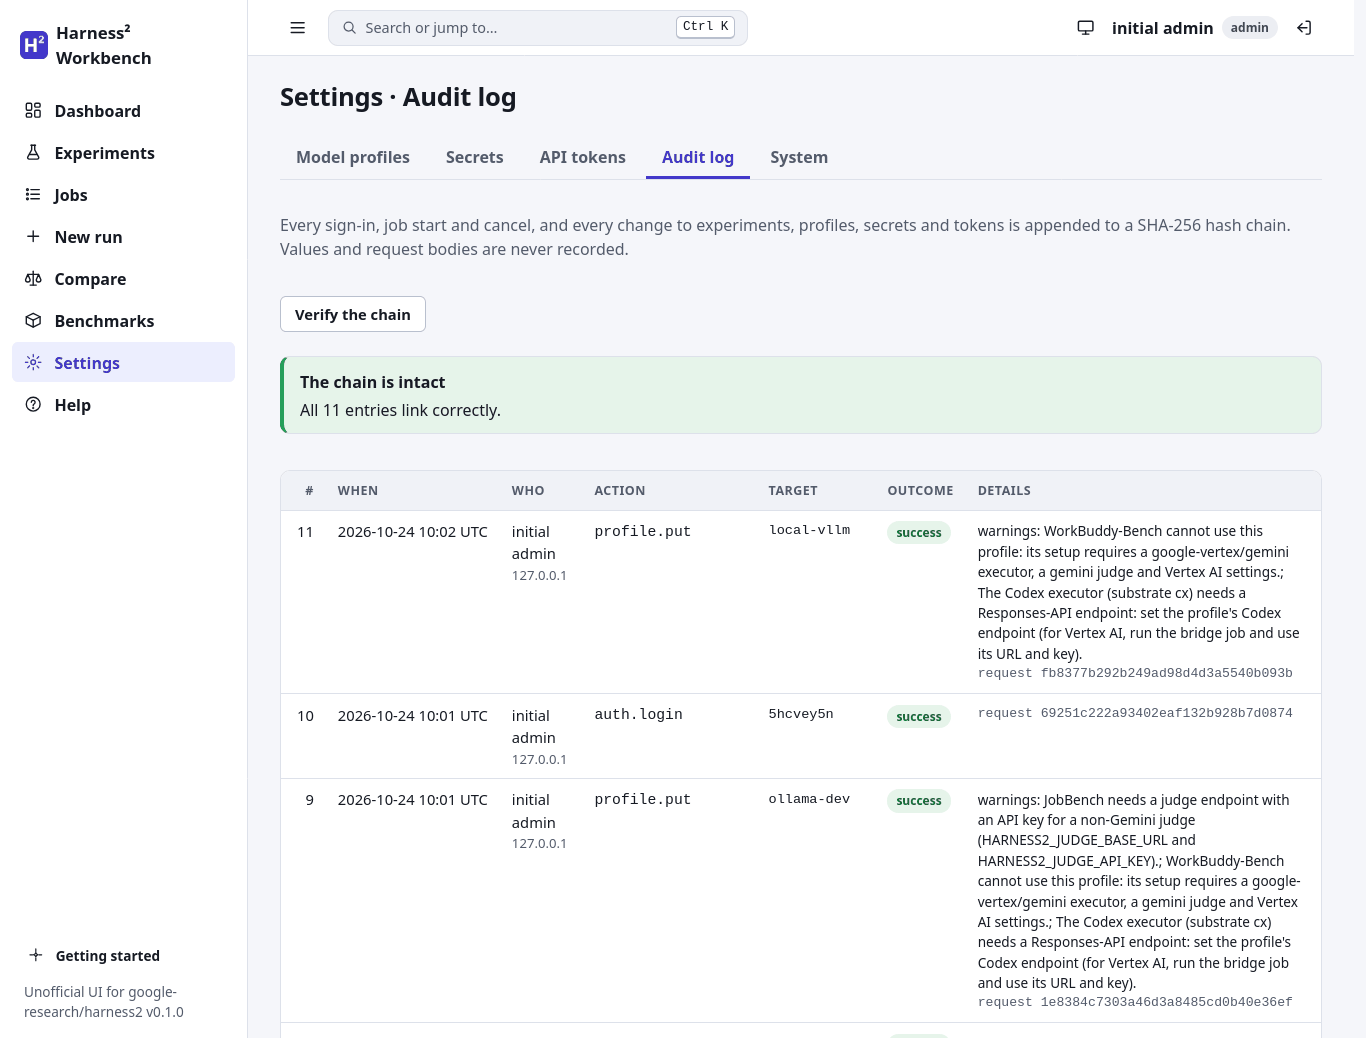
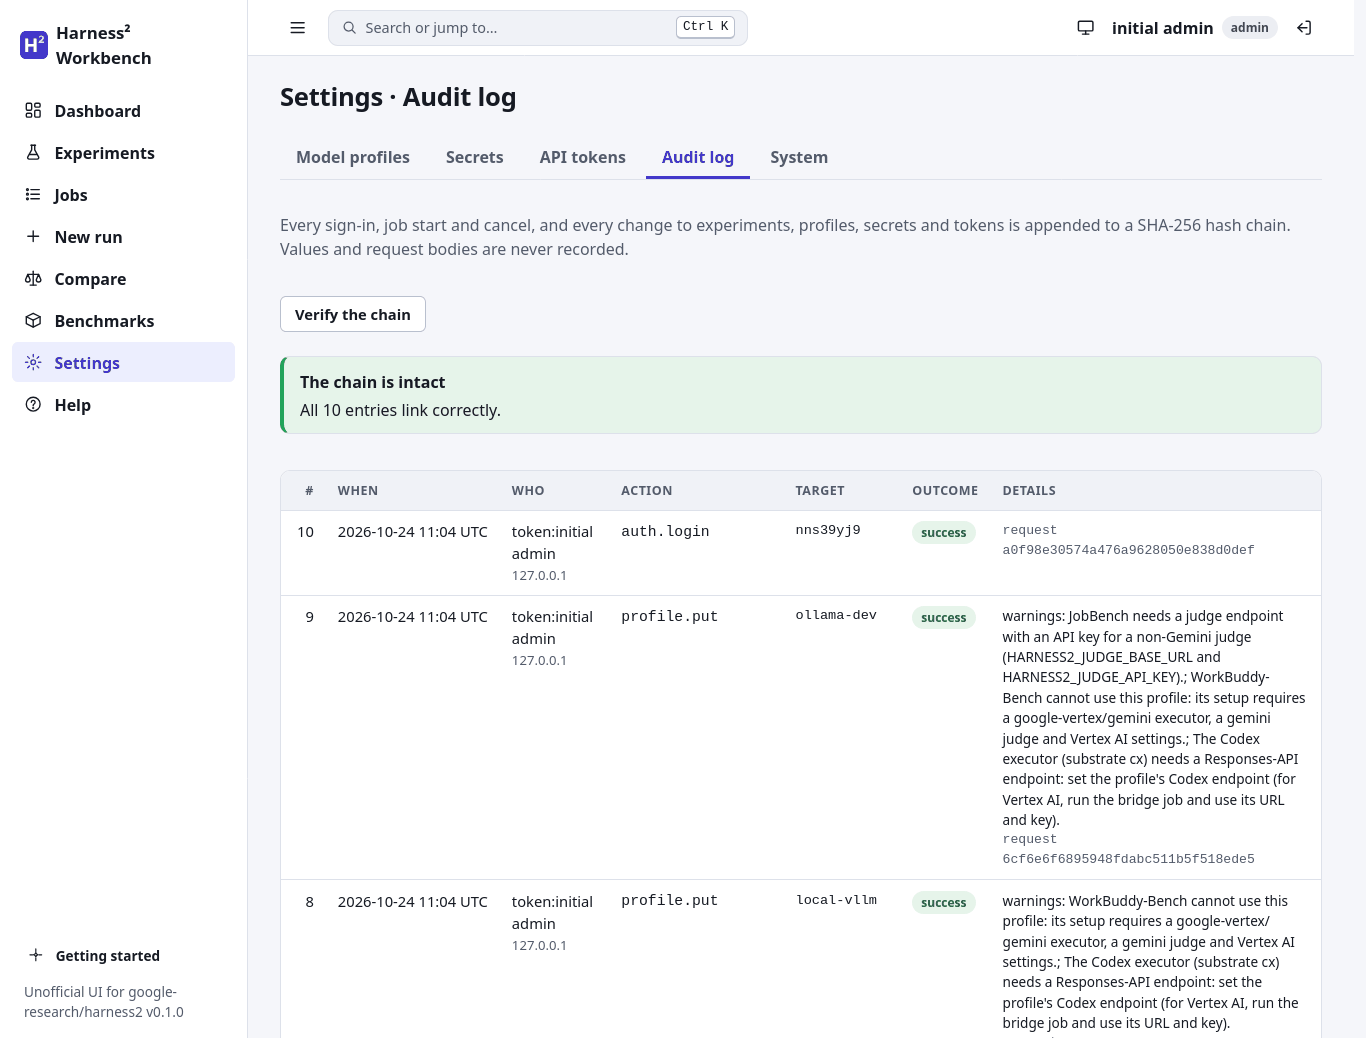
docs(user-guide): audit actors, the 200-sweep list, a retaken audit picture
The audit log page now names the kind of each actor (token:<name>), so the
picture was taken again from the re-audit build; the guide explains the
Who column, the limit on refused-request records and the cap of 200
listed sweeps per experiment.

diff --git a/docs/USER-GUIDE.md b/docs/USER-GUIDE.md
@@ -146,7 +146,8 @@ a digest of the results; viewers can download it too), **Edit** (description and
 profile cannot change) and **Archive** (hides it from lists and pickers; nothing is deleted).
 
 The **Sweeps** table lists each run configuration: its id (the summary namespace such as
-`demo-oc-agg2`), executor, budget **k**, seed, modes, tasks, spend, scores and last update. Below it,
+`demo-oc-agg2`), executor, budget **k**, seed, modes, tasks, spend, scores and last update (an
+experiment lists at most its 200 newest sweeps; older ones still open by their id). Below it,
 **Jobs in this experiment**.
 
 ### 5.3 A sweep
@@ -464,12 +465,17 @@ smallest role it needs, and keep MCP agents on **viewer** tokens unless they mus
 
 Every sign-in, job start and cancel, and every change to experiments, profiles, secrets and tokens is
 appended to a SHA-256 hash chain; values and request bodies are never recorded. **Verify the chain**
-re-walks it (*The chain is intact: all N entries link correctly*, with N the number of records). Treat that as
+re-walks it (*The chain is intact: all N entries link correctly*, with N the number of records). The
+**Who** column names the kind of actor: `token:<name>` for an API token and its browser sessions,
+`proxy:<user>` for a user a reverse proxy signed in, `cli` for the command line, `server` for the
+server itself and `anonymous` for a failed sign-in. Treat that as
 evidence of accidental or casual edits, **not as a tamper-proof record**: anyone who can write the
 server's data directory, host-mode jobs included, can rewrite the whole chain and the check will
 still pass. Keep the head hash somewhere the server's user cannot write
 ([ADMIN-GUIDE.md](ADMIN-GUIDE.md#13-audit-log)). Refused credentials are recorded too, but at most
-10 a minute per client address (the rest are only counted), so junk requests cannot flood the log.
+10 a minute per client address, and calls refused for a role that is too low at most 10 a minute per
+token or proxy user (the rest are only counted), so junk requests and a viewer's refused calls cannot
+flood the log.
 
 ### 11.5 System
 
@@ -571,7 +577,8 @@ accepts a commit other than the tested one, which the server then refuses by def
 
 On 2026-10-24, in headless Firefox 157.0.1 through geckodriver 0.37.1, against the real server and the
 mock API described at the top, with the web UI built from the main branch after the security-review
-fixes and the rename to Harness² Workbench. All 38 pictures were taken from that one build.
+fixes and the rename to Harness² Workbench. All 38 pictures were taken from that one build, except
+the audit log picture, which was taken again after the audit log began to name the kind of each actor.
 
 - **Exercised and photographed or read back** (the buttons each role sees were listed from the page
   for a viewer, an operator and an admin): sign-in (empty, malformed and wrong token, the return
